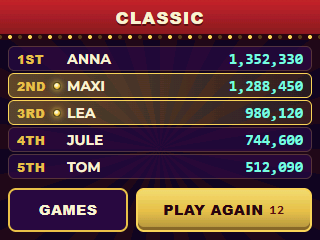
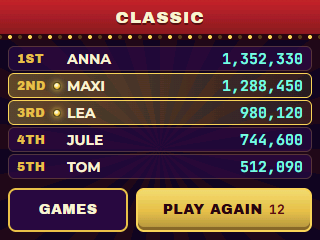
Set the host's screens in Archivo Black and JetBrains Mono Bold
Arial Black and Consolas are licensed with Windows only, so the firmware
cannot carry them. Archivo Black and JetBrains Mono stand under the SIL
Open Font License. The storyboard's screens are rendered again in them.

diff --git a/docs/firmware/host-screens.md b/docs/firmware/host-screens.md
@@ -35,7 +35,7 @@ The host's screens let the player choose a game, set sound and lights, and see w
 - **A slider** has a violet track and a steel ball as its knob. Its fill is ramp blue for sound and board gold for light. A 44 px minus and plus stand beside it, each a step of 5 %.
 - **A warning light** is a marquee bulb: green for a device that works, amber for a warning and red for a failed device. A failed device also turns its frame neon red, as the PINBALL tubes.
 - **A dialog** is a night card with the red title strip. A fault dialog glows neon red.
-- **Type** is English. Arial Black sets titles and buttons, as the film's MULTIBALL. Montserrat sets text at 14 px and never below 12 px. LVGL brings Montserrat in even sizes. Consolas Bold sets numbers in cyan, as the film's score. Arial Black and Consolas Bold are converted for LVGL with `lv_font_conv`.
+- **Type** is English. Archivo Black sets titles and buttons, as the film's MULTIBALL. Montserrat sets text at 14 px and never below 12 px. LVGL brings Montserrat in even sizes. JetBrains Mono Bold sets numbers in cyan, as the film's score. Archivo Black and JetBrains Mono are free fonts under the SIL Open Font License. `lv_font_conv` converts them for LVGL.
 - **Motion** stays short. The menu follows the finger in from the right edge and snaps open or back in 150 ms. Pages slide sideways in 150 ms. Toasts drop in from the top in 200 ms.
 
 ## Flow
